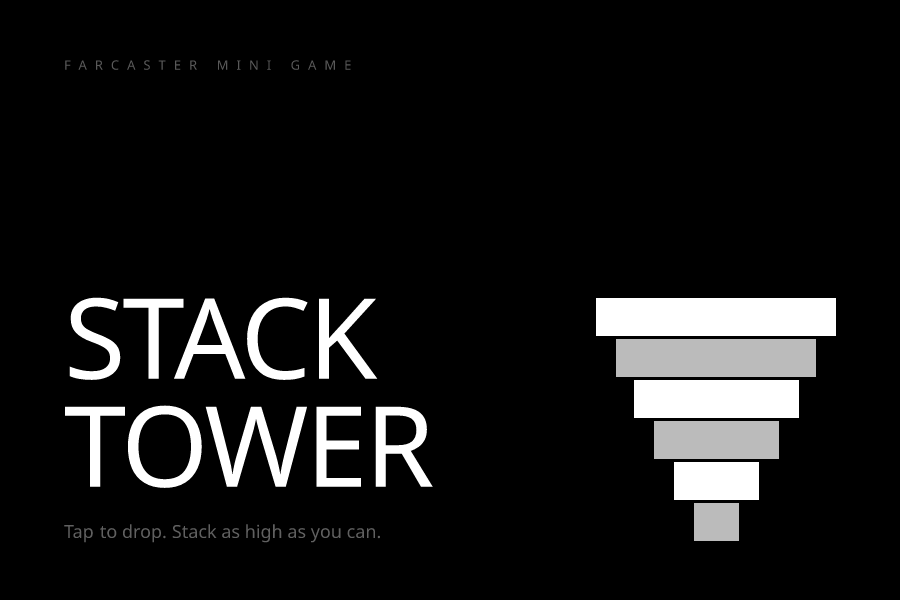
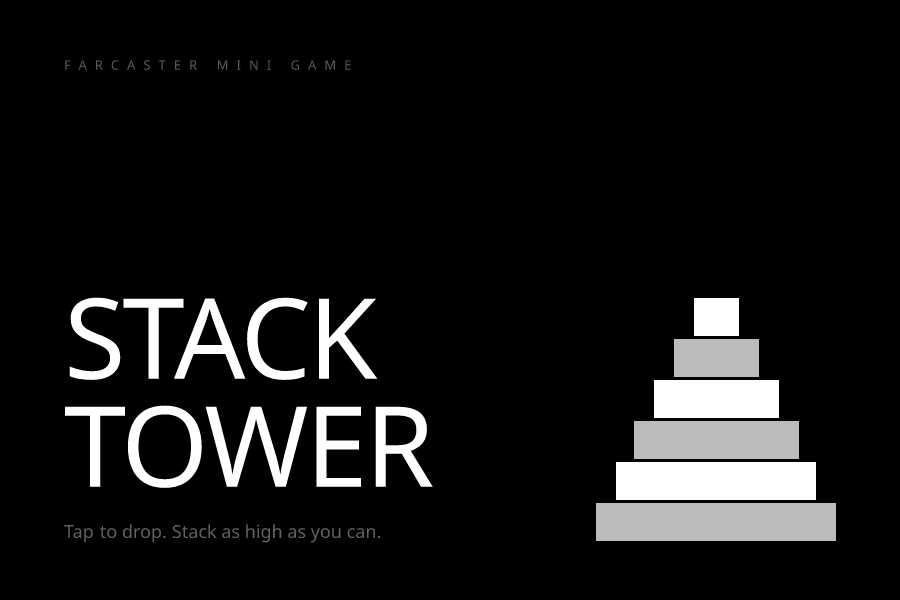
fix: correct tower shape from inverted to proper triangle in og images

Changed region(s): [[0.8089, 0.48, 0.9333, 0.9], [0.6533, 0.48, 0.7778, 0.9]]

diff --git a/src/app/og-image.png/route.tsx b/src/app/og-image.png/route.tsx
@@ -47,7 +47,7 @@ export async function GET() {
             bottom: 72,
           }}
         >
-          {[320, 270, 230, 185, 140, 90].map((w, i) => (
+          {[90, 140, 185, 230, 270, 320].map((w, i) => (
             <div
               key={i}
               style={{

diff --git a/src/app/opengraph-image/route.tsx b/src/app/opengraph-image/route.tsx
@@ -46,7 +46,7 @@ export async function GET() {
             bottom: 56,
           }}
         >
-          {[240, 200, 165, 125, 85, 45].map((w, i) => (
+          {[45, 85, 125, 165, 200, 240].map((w, i) => (
             <div
               key={i}
               style={{